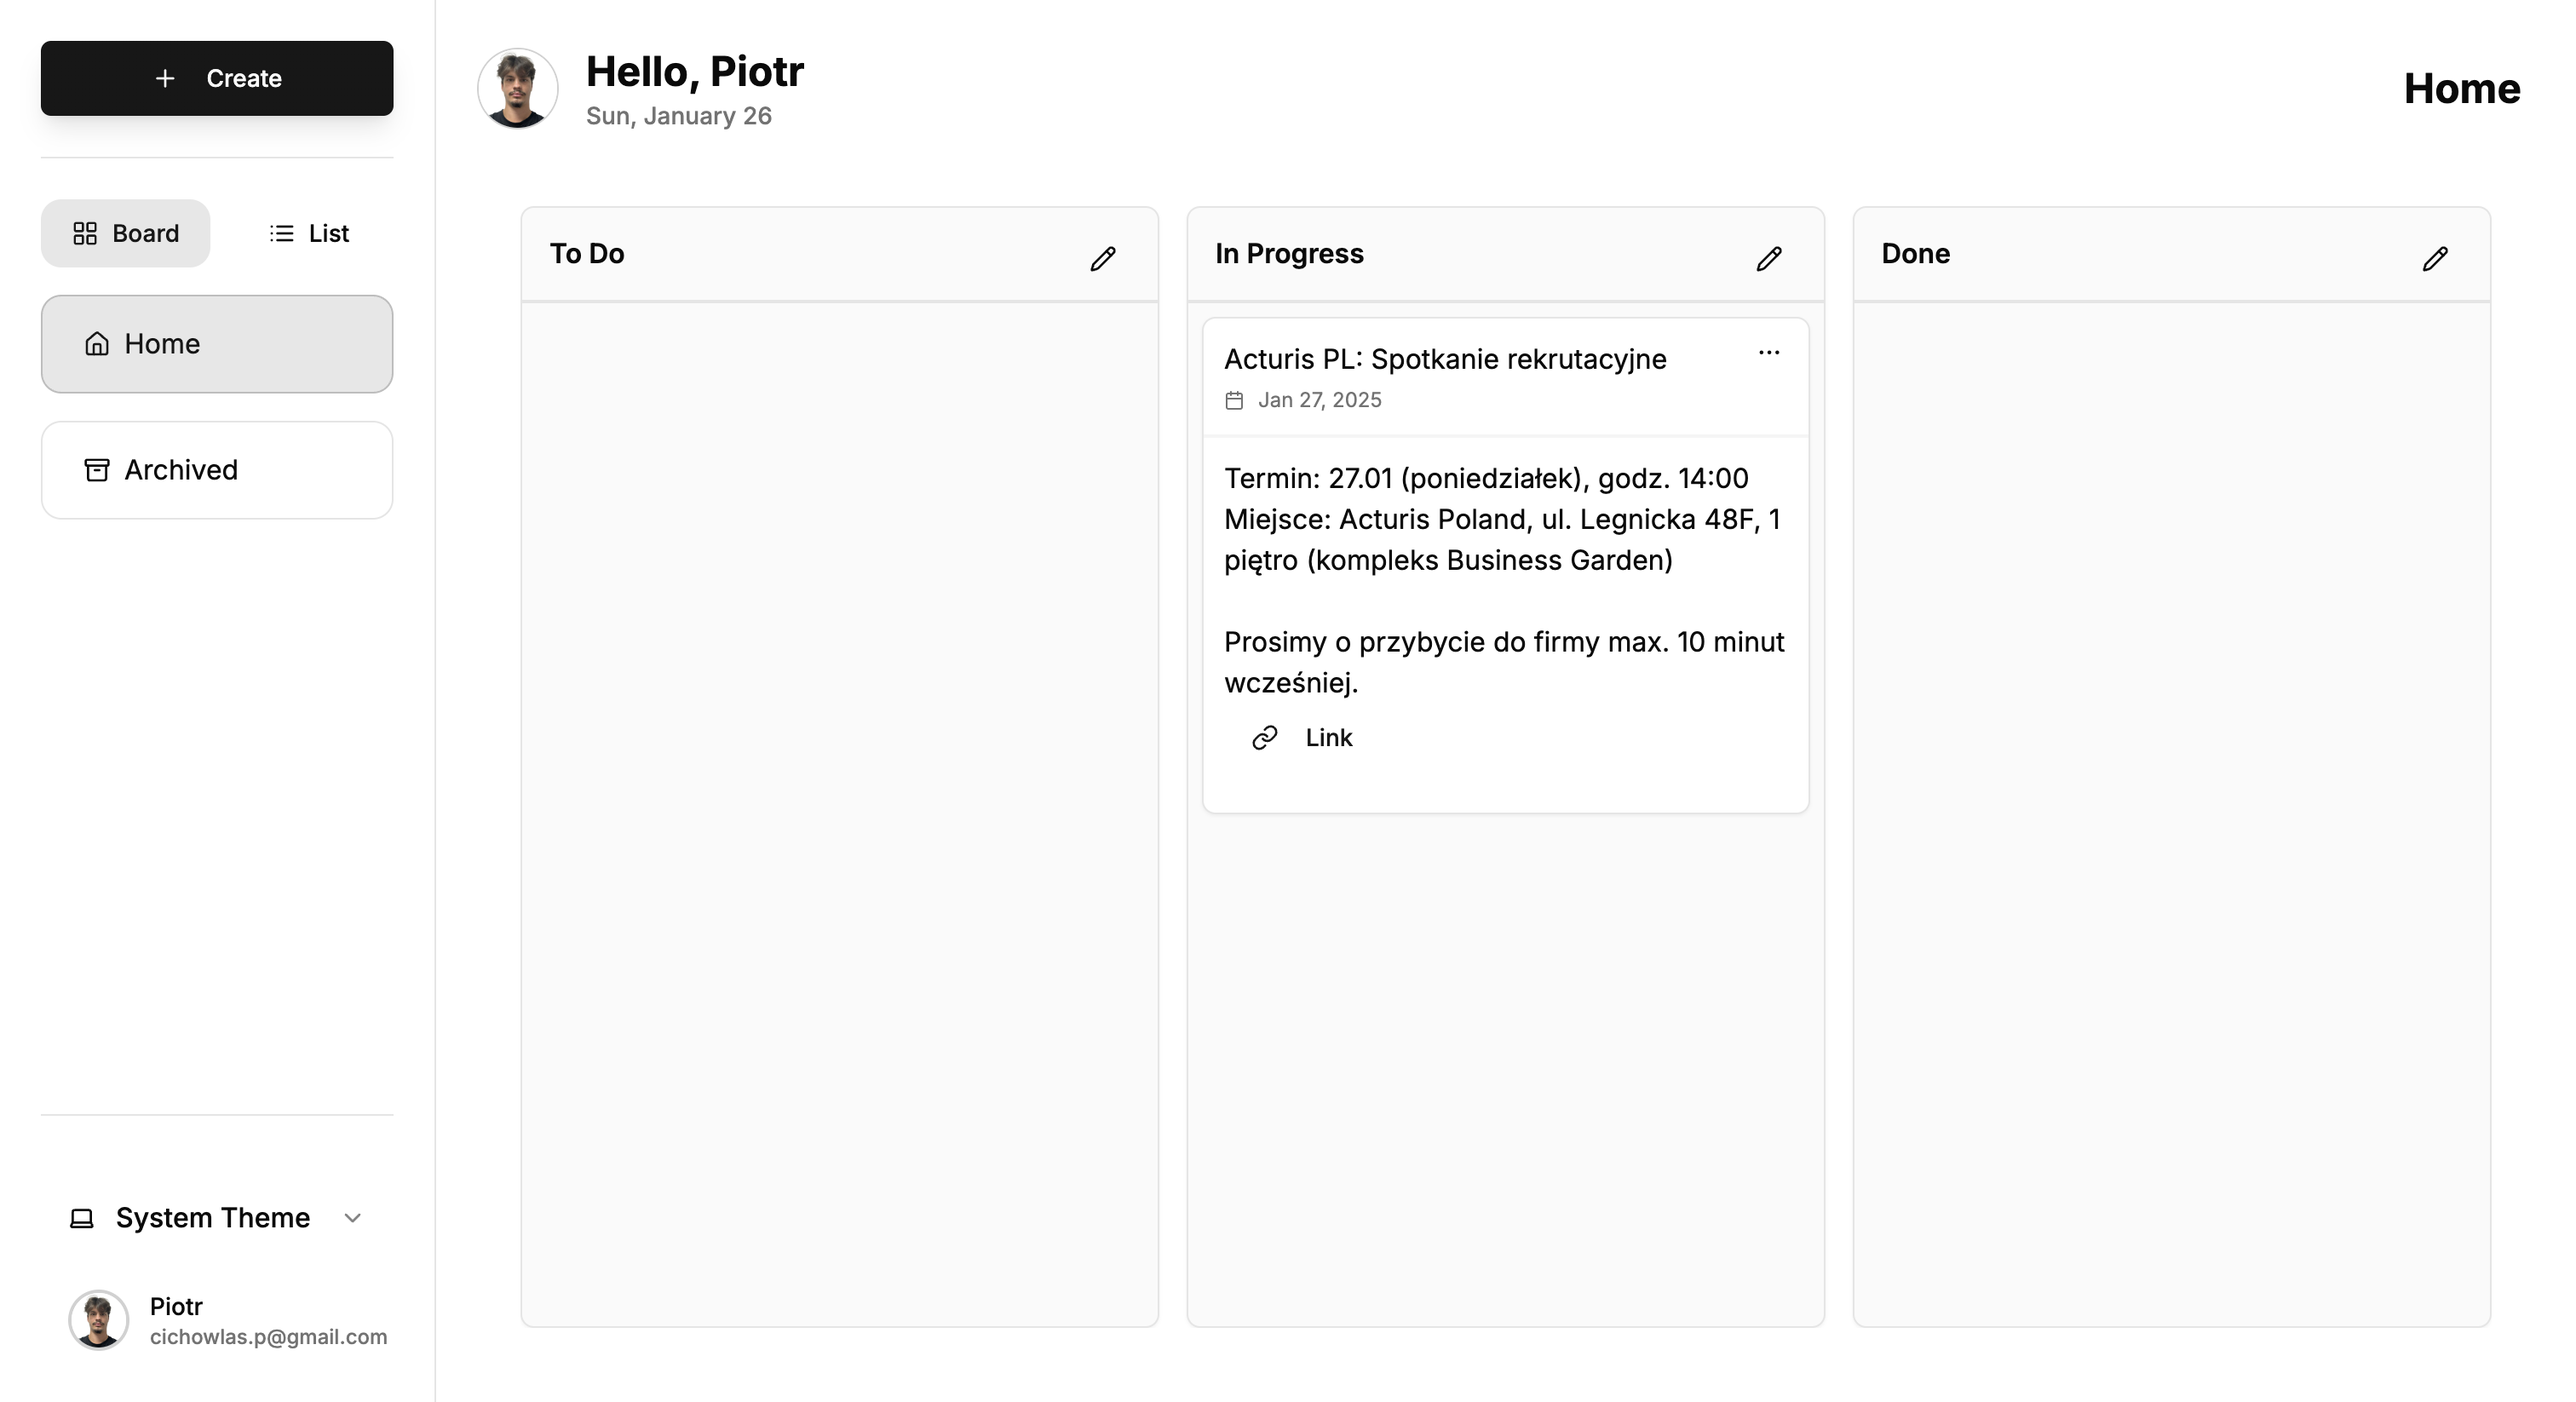
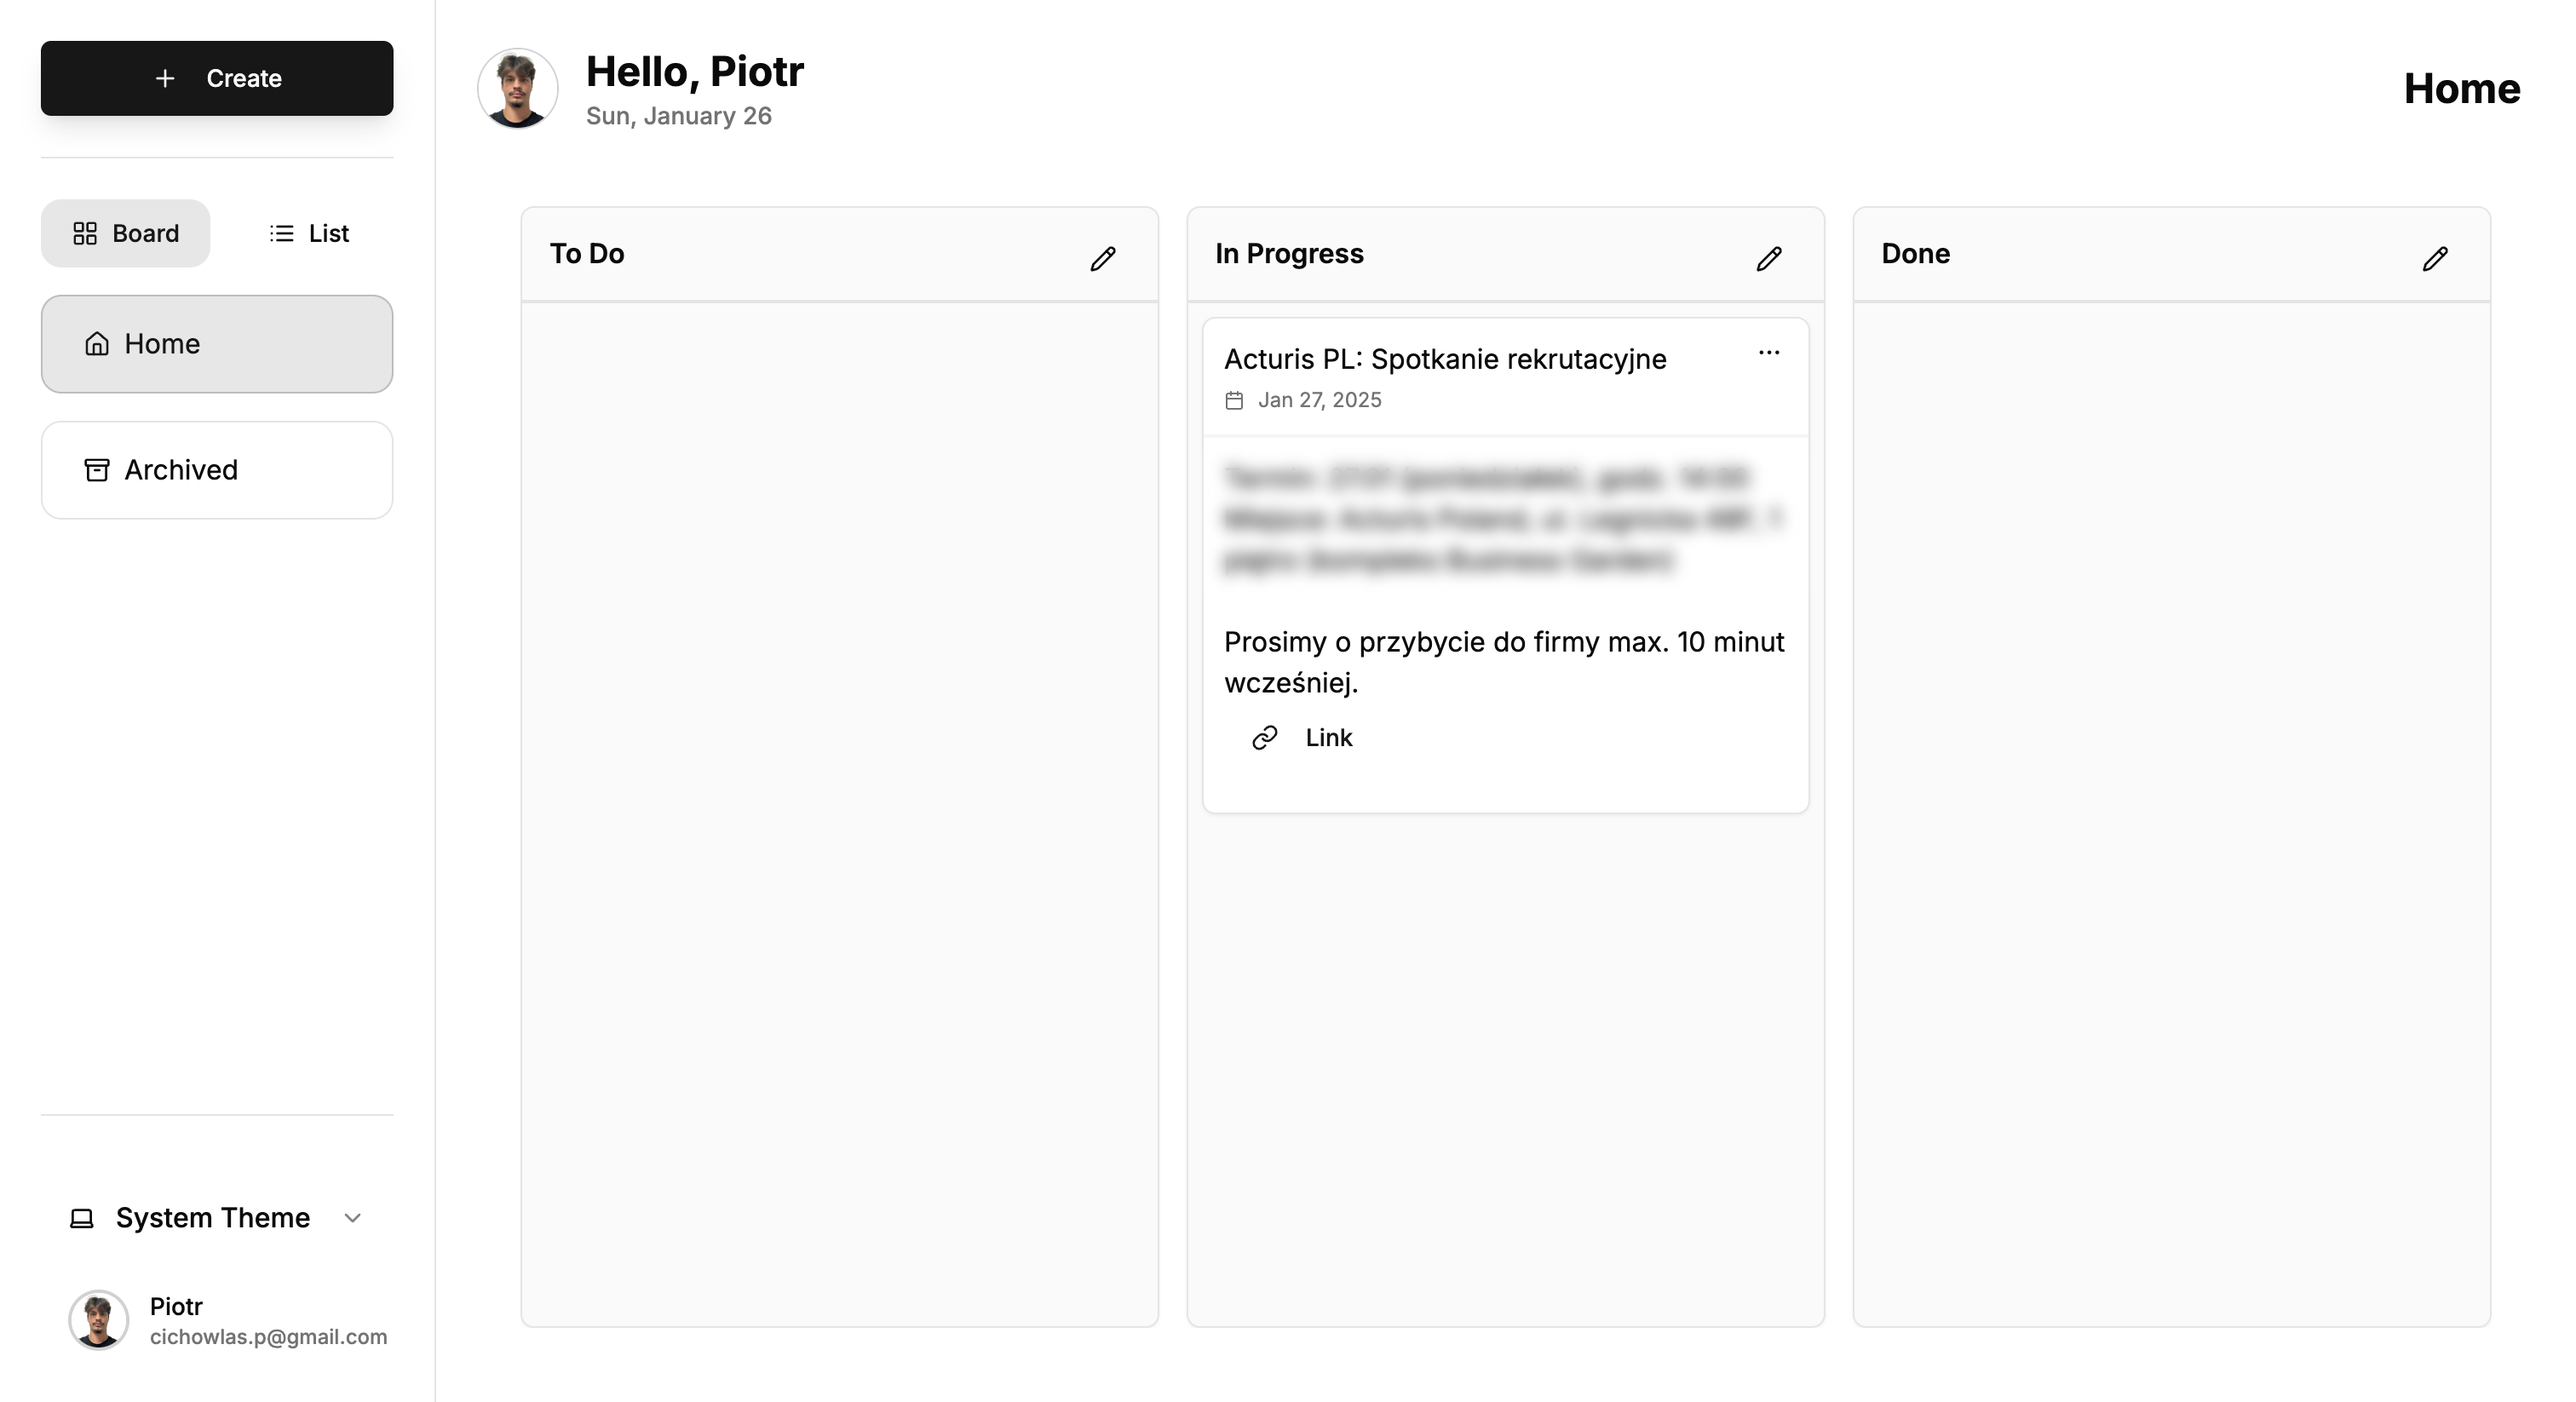
small readme changes

Changed region(s): [[0.4663, 0.3098, 0.6839, 0.4338]]

diff --git a/README.md b/README.md
@@ -18,7 +18,7 @@ A powerful, Asana-inspired task management application built with Next.js and Su
 
 Experience Task List in action: [https://job-status.vercel.app/](https://job-status.vercel.app/)
 
-![Task Management](./screenshots/task-management.png)
+![Task Management](./screenshots/dashboard.png)
 
 ## 🛠 Tech Stack
 
